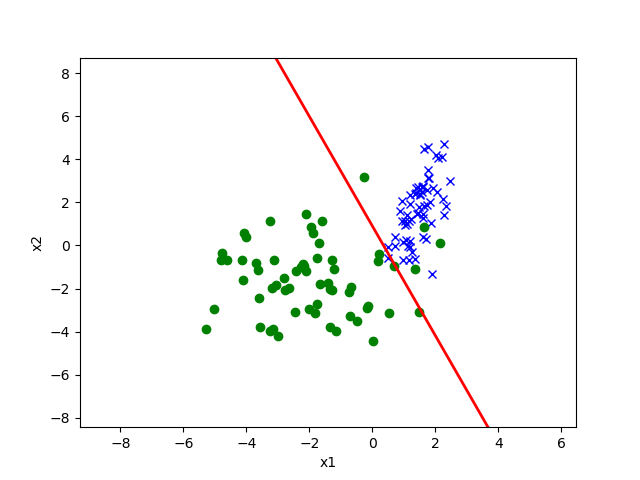
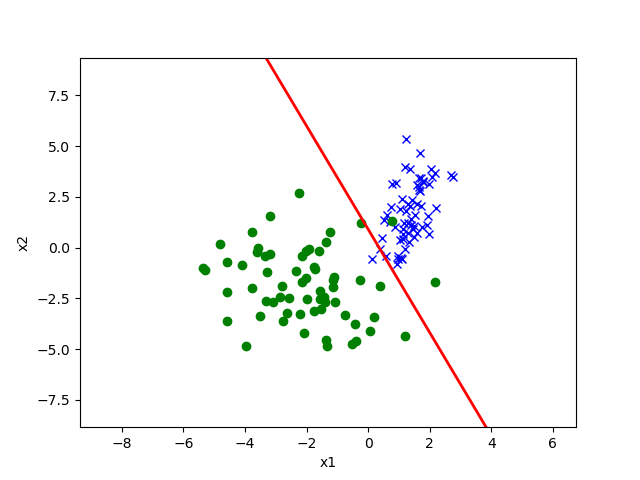
finish prob 2

diff --git a/ps1/src/posonly/posonly.py b/ps1/src/posonly/posonly.py
@@ -35,22 +35,39 @@ def main(train_path, valid_path, test_path, save_path):
     plot_path_naive = plot_path.replace(WILDCARD, 'naive')
     plot_path_adjusted = plot_path.replace(WILDCARD, 'adjusted')
 
+    x_test, t_test = util.load_dataset(test_path, label_col='t', add_intercept=True)
+
     # *** START CODE HERE ***
     # Part (a): Train and test on true labels
     # Make sure to save predicted probabilities to output_path_true using np.savetxt()
     x_train, t_train = util.load_dataset(train_path, label_col='t', add_intercept=True)
-    x_val, t_val = util.load_dataset(valid_path, label_col='t', add_intercept=True)
 
     lg = LogisticRegression()
     lg.fit(x_train, t_train)
-    y_predict = lg.predict(x_val)
-    np.savetxt(save_path, y_predict)
-    util.plot(x_val, t_val, lg.theta, plot_path_true)
+    y_predict = lg.predict(x_test)
+    np.savetxt(output_path_true, y_predict)
+    util.plot(x_test, t_test, lg.theta, plot_path_true)
 
     # Part (b): Train on y-labels and test on true labels
     # Make sure to save predicted probabilities to output_path_naive using np.savetxt()
+    x_train, y_train = util.load_dataset(train_path, label_col='y', add_intercept=True)
+
+    lg = LogisticRegression()
+    lg.fit(x_train, y_train)
+    y_predict = lg.predict(x_test)
+    np.savetxt(output_path_naive, y_predict)
+    util.plot(x_test, t_test, lg.theta, plot_path_naive)
+
     # Part (f): Apply correction factor using validation set and test on true labels
     # Plot and use np.savetxt to save outputs to output_path_adjusted
+    x_val, y_val = util.load_dataset(valid_path, label_col='y')
+    x_val = x_val[y_val==1, :]
+    x_val = util.add_intercept(x_val)
+    y_pred = lg.predict(x_val)
+    alpha = np.mean(y_pred)
+    print("alpha is ", alpha)
+    np.savetxt(output_path_adjusted,  y_predict/ alpha)
+    util.plot(x_test, t_test, lg.theta, plot_path_adjusted, correction=alpha)
     # *** END CODER HERE
 
 if __name__ == '__main__':
